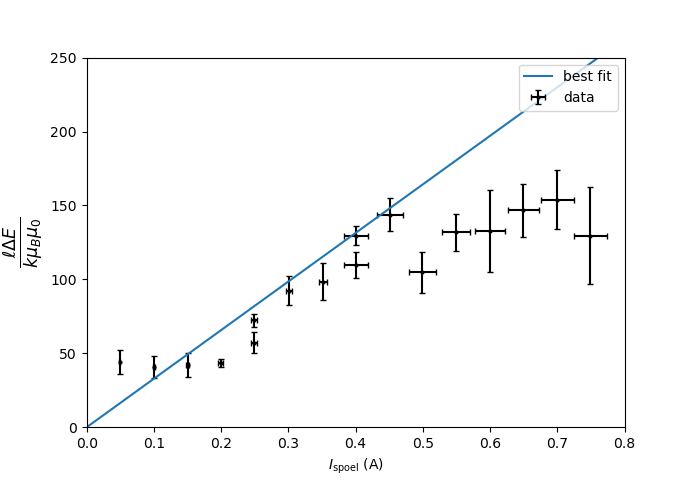
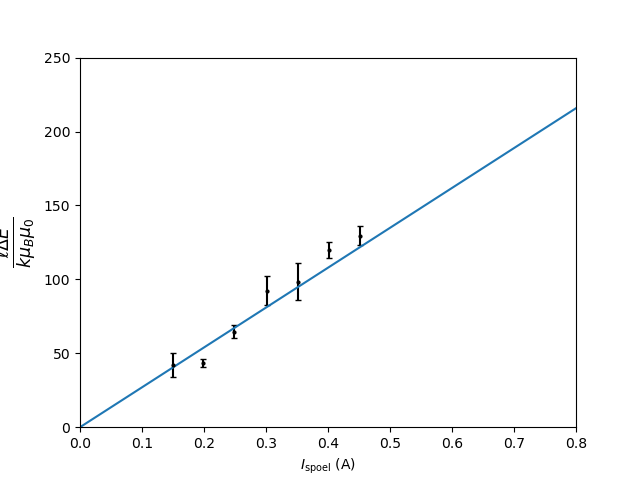
fixes
verwijder eerste twee, laatste zes datapunten
combineer duplicate datapunten
fix fit plot

diff --git a/meting2.py b/meting2.py
@@ -137,21 +137,43 @@ def try_fit(m_Fl, m_Fr):
         (energies_err / energies) ** 2 + (const_err / const) ** 2
     )
 
+    # remove first 2 and last 6 values
+    lin_vals = list(lin_vals[2:len(lin_vals) - 6])
+    lin_vals_err = list(lin_vals_err[2:len(lin_vals_err) - 6])
+
+    # combine duplicate current measurements 3,4 and 7,8 (in the worst possible way)
+    lin_vals_err[2] = np.sqrt(lin_vals_err[2]**2 + lin_vals_err[3]**2)/2
+    lin_vals[2] = (lin_vals[2] + lin_vals[3])/2
+    lin_vals_err[6] = np.sqrt(lin_vals_err[6]**2 + lin_vals_err[7]**2)/2
+    lin_vals[6] = (lin_vals[6] + lin_vals[7])/2
+
+    lin_vals.remove(lin_vals[3])
+    lin_vals_err.remove(lin_vals_err[3])
+    lin_vals.remove(lin_vals[7])
+    lin_vals_err.remove(lin_vals_err[7])
+    current_df.drop_duplicates(inplace=True)
+
+    lin_vals = np.array(lin_vals)
+    lin_vals_err = np.array(lin_vals_err)
+
     lin_func = lambda I, N: I * N
 
     model = models.Model(lin_func)
 
+    print(current_df)
+    print(lin_vals)
+    print(lin_vals_err)
+
     fit = model.fit(
         data=lin_vals,
-        I=current_df["current"],
+        I=current_df["current"][2:len(current_df["current"]) - 6],
         weights=1 / lin_vals_err,
-        N=700,
+        N=200,
     )
     print(fit.fit_report())
     if m_Fl == 2 and m_Fr == 2:
         plt.errorbar(
-            x=current_df["current"],
-            xerr=current_df["current_err"],
+            x=current_df["current"][2:len(current_df["current"]) - 6],
             y=lin_vals,
             yerr=lin_vals_err,
             fmt="o",
@@ -162,10 +184,10 @@ def try_fit(m_Fl, m_Fr):
         )
         plt.xlabel(r"$I_{\mathrm{spoel}}$ (A)")
         plt.ylabel(r"$\frac{\ell \Delta E}{k \mu_B \mu_0}$", fontsize=18)
-        plt.plot([0, 0.8], [0, fit.params["N"].value], label="best fit")
-        plt.legend(loc="upper right")
+        plt.plot([0, 0.8], [0, 0.8 * fit.params["N"].value], label="best fit")
         plt.xlim(0, 0.8)
         plt.ylim(0, 250)
+        plt.savefig("fit.png")
         plt.show()
 
     return fit.params["N"].value
@@ -182,6 +204,7 @@ plt.xlim(150, 550)
 plt.ylim(0, 6)
 plt.xlabel(r"$N$")
 plt.ylabel("counts")
+plt.savefig("hist.png")
 plt.show()
 
 bin_centers = []
